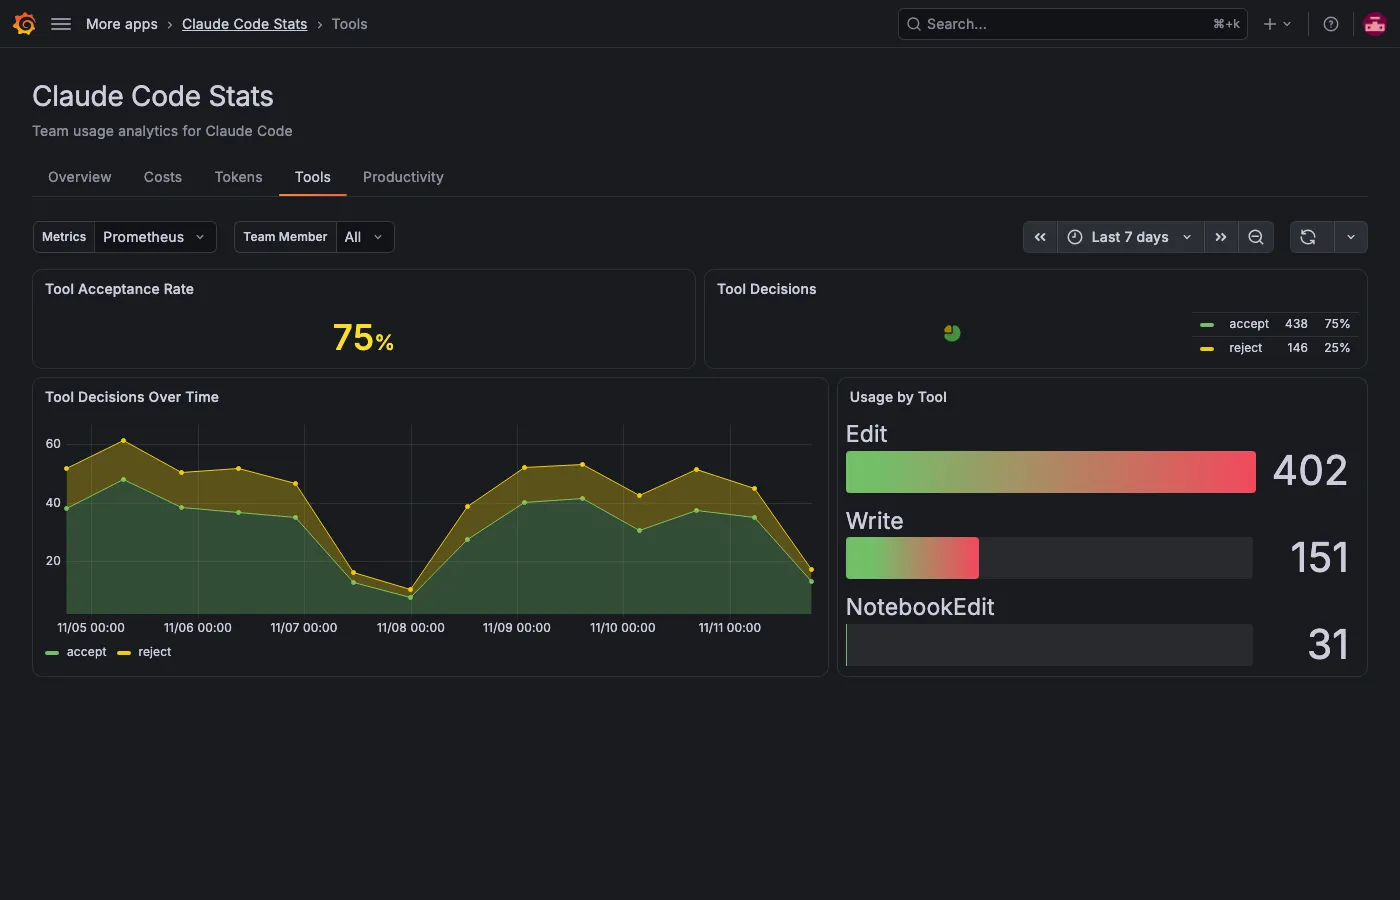
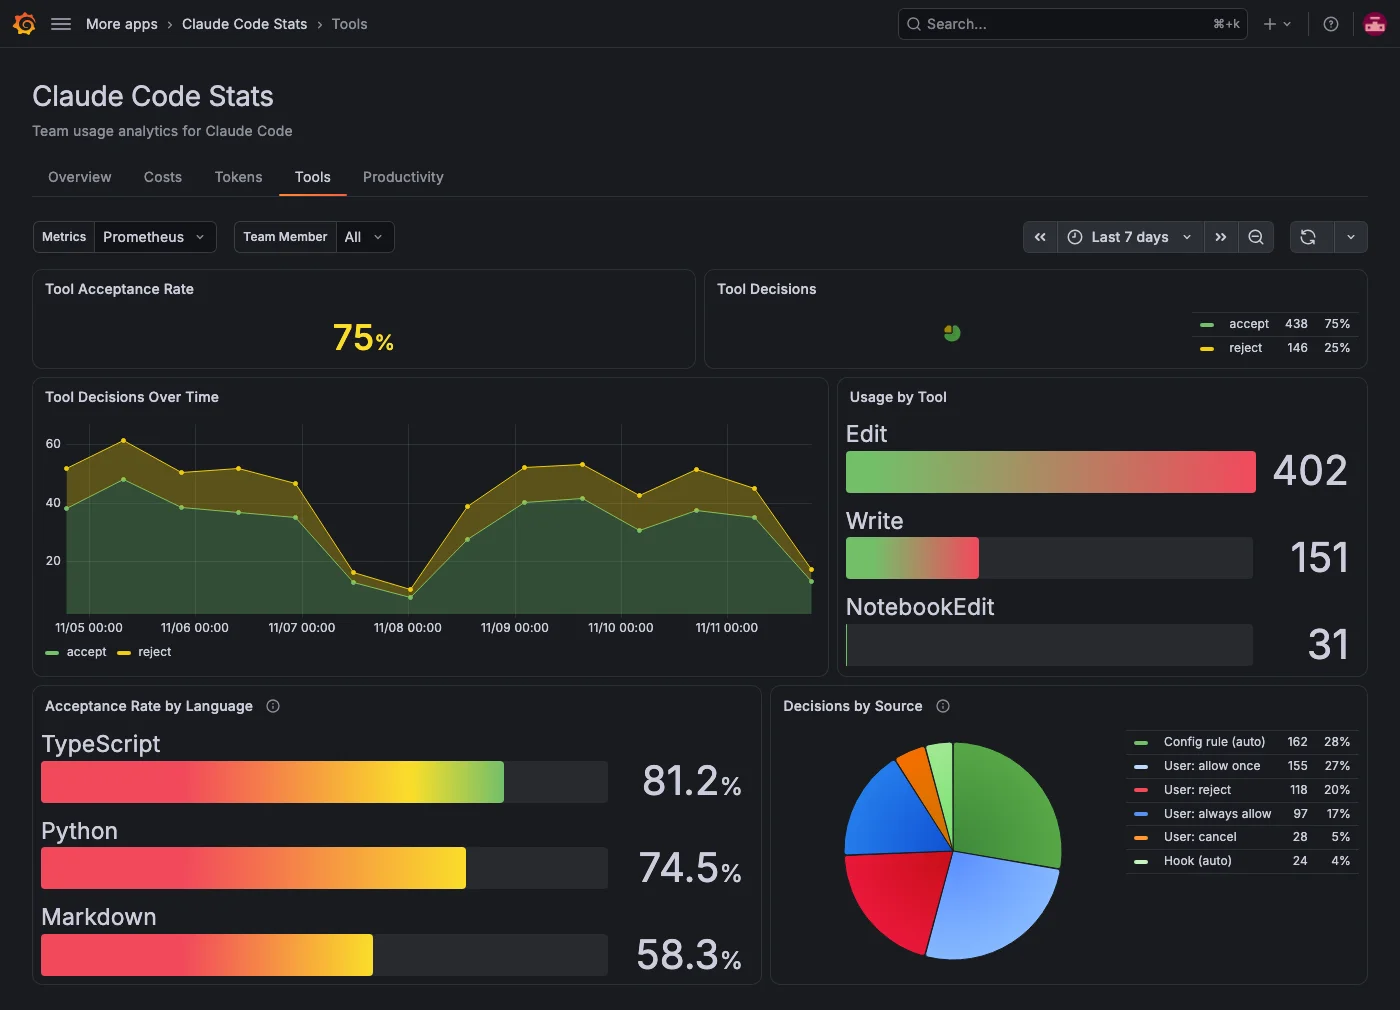
feat: tool acceptance rate by language and decision source (#31) (#69)
Add two panels to the Tools page:
- Acceptance Rate by Language: per-language accept %, sorted, keeping
  languages with zero accepts at 0% instead of dropping them.
- Decisions by Source: config rule / hook (auto) vs user allow once,
  always allow, reject, cancel, with readable names and fixed colors.

Includes e2e mocks and tests, Tools docs, and a refreshed screenshot.

diff --git a/src/scenes/pages/ToolsScene.ts b/src/scenes/pages/ToolsScene.ts
@@ -18,7 +18,7 @@ import {
   BarGaugeValueMode,
   VizOrientation,
 } from '@grafana/schema';
-import { QUERIES, Queries } from '../queries';
+import { DECISION_SOURCE_COLORS, DECISION_SOURCE_NAMES, QUERIES, Queries } from '../queries';
 import { getControlsWithoutModel } from '../variables';
 import { PANEL_HEIGHTS } from '../../constants';
 
@@ -69,6 +69,30 @@ export function getToolsScene(
         refId: 'ToolDecisionsOverTime',
         expr: queries.toolDecisionsOverTime,
         legendFormat: '{{decision}}',
+      },
+    ],
+  });
+
+  const toolAcceptanceRateByLanguageQuery = new SceneQueryRunner({
+    datasource: { type: 'prometheus', uid: '${prometheus_ds}' },
+    queries: [
+      {
+        refId: 'ToolAcceptanceRateByLanguage',
+        expr: queries.toolAcceptanceRateByLanguage,
+        legendFormat: '{{language}}',
+        instant: true,
+      },
+    ],
+  });
+
+  const toolDecisionsBySourceQuery = new SceneQueryRunner({
+    datasource: { type: 'prometheus', uid: '${prometheus_ds}' },
+    queries: [
+      {
+        refId: 'ToolDecisionsBySource',
+        expr: queries.toolDecisionsBySource,
+        legendFormat: '{{source}}',
+        instant: true,
       },
     ],
   });
@@ -148,6 +172,67 @@ export function getToolsScene(
                 .setOption('minVizWidth', 150)
                 .setOption('minVizHeight', 25)
                 .setDisplayName('${__series.name}')
+                .build(),
+            }),
+          ],
+        }),
+        // Row 3: Acceptance by language and who decides
+        new SceneFlexLayout({
+          direction: 'row',
+          height: PANEL_HEIGHTS.LARGE,
+          children: [
+            new SceneFlexItem({
+              width: '55%',
+              body: PanelBuilders.bargauge()
+                .setTitle('Acceptance Rate by Language')
+                .setDescription(
+                  'Share of edit decisions that were accepts, per file language. A language with only a few decisions can swing between 0% and 100%.'
+                )
+                .setUnit('percent')
+                .setMin(0)
+                .setMax(100)
+                .setData(toolAcceptanceRateByLanguageQuery)
+                .setOption('displayMode', BarGaugeDisplayMode.Gradient)
+                .setOption('orientation', VizOrientation.Horizontal)
+                .setOption('valueMode', BarGaugeValueMode.Text)
+                .setOption('showUnfilled', true)
+                .setOption('minVizWidth', 150)
+                .setOption('minVizHeight', 25)
+                .setDisplayName('${__series.name}')
+                .setThresholds({
+                  mode: 'absolute',
+                  steps: [
+                    { color: 'red', value: 0 },
+                    { color: 'yellow', value: 50 },
+                    { color: 'green', value: 80 },
+                  ],
+                } as never)
+                .build(),
+            }),
+            new SceneFlexItem({
+              width: '45%',
+              body: PanelBuilders.piechart()
+                .setTitle('Decisions by Source')
+                .setDescription(
+                  'Who made each edit decision: a config rule or hook (automatic), or the user at the permission prompt.'
+                )
+                .setUnit('short')
+                .setData(toolDecisionsBySourceQuery)
+                .setOption('legend', {
+                  displayMode: LegendDisplayMode.Table,
+                  placement: 'right',
+                  values: ['value', 'percent'] as never,
+                })
+                .setOverrides((b) => {
+                  for (const [source, name] of Object.entries(DECISION_SOURCE_NAMES)) {
+                    b.matchFieldsWithName(source)
+                      .overrideDisplayName(name)
+                      .overrideColor({
+                        mode: 'fixed',
+                        fixedColor: DECISION_SOURCE_COLORS[source as keyof typeof DECISION_SOURCE_NAMES],
+                      });
+                  }
+                })
                 .build(),
             }),
           ],

diff --git a/src/scenes/queries.ts b/src/scenes/queries.ts
@@ -180,6 +180,16 @@ function buildQueries(m: MetricNames) {
     /** Tool acceptance rate */
     toolAcceptanceRate: `sum(increase(${m.TOOL_DECISION}{${LABELS.USER_EMAIL}=~"$member", ${LABELS.DECISION}="accept"}[$__range])) / clamp_min(sum(increase(${m.TOOL_DECISION}{${LABELS.USER_EMAIL}=~"$member"}[$__range])), 1) * 100`,
 
+    /**
+     * Acceptance rate per file language, highest first. Languages with no
+     * accepts are kept at 0% via the `or ... * 0` fallback (otherwise the
+     * numerator has no series for them and they'd drop out).
+     */
+    toolAcceptanceRateByLanguage: `sort_desc((sum by (${LABELS.LANGUAGE}) (increase(${m.TOOL_DECISION}{${LABELS.USER_EMAIL}=~"$member", ${LABELS.DECISION}="accept"}[$__range])) or sum by (${LABELS.LANGUAGE}) (increase(${m.TOOL_DECISION}{${LABELS.USER_EMAIL}=~"$member"}[$__range])) * 0) / clamp_min(sum by (${LABELS.LANGUAGE}) (increase(${m.TOOL_DECISION}{${LABELS.USER_EMAIL}=~"$member"}[$__range])), 1) * 100)`,
+
+    /** Tool decisions by who made them: config rule, hook, or the user (allow once/always, reject, abort) */
+    toolDecisionsBySource: `sort_desc(sum by (${LABELS.DECISION_SOURCE}) (increase(${m.TOOL_DECISION}{${LABELS.USER_EMAIL}=~"$member"}[$__range])))`,
+
     /** Tool decisions over time */
     toolDecisionsOverTime: `sum(increase(${m.TOOL_DECISION}{${LABELS.USER_EMAIL}=~"$member"}[$__rate_interval])) by (${LABELS.DECISION})`,
 
@@ -209,6 +219,32 @@ export const ACTIVE_TIME_TYPE_NAMES = {
   user: 'User (interaction)',
   cli: 'CLI (processing)',
 } as const;
+
+/**
+ * Display names for the `source` label values of the code-edit decision metric.
+ * `config` and `hook` are automatic; the `user_*` values are explicit choices.
+ */
+export const DECISION_SOURCE_NAMES = {
+  config: 'Config rule (auto)',
+  hook: 'Hook (auto)',
+  user_permanent: 'User: always allow',
+  user_temporary: 'User: allow once',
+  user_reject: 'User: reject',
+  user_abort: 'User: cancel',
+} as const;
+
+/**
+ * Fixed colors for the decision sources: greens for automatic, blues for user
+ * allows, red/orange for user rejections, so the pie reads at a glance.
+ */
+export const DECISION_SOURCE_COLORS: Record<keyof typeof DECISION_SOURCE_NAMES, string> = {
+  config: 'green',
+  hook: 'super-light-green',
+  user_permanent: 'blue',
+  user_temporary: 'super-light-blue',
+  user_reject: 'red',
+  user_abort: 'orange',
+};
 
 /** Build queries for a specific metric format */
 export { buildQueries };

diff --git a/tests/mocks/prometheus.ts b/tests/mocks/prometheus.ts
@@ -23,6 +23,16 @@ export const ACTIVE_TIME_TYPES = { user: 'User (interaction)', cli: 'CLI (proces
 export const DECISIONS = ['accept', 'reject'] as const;
 // The code-edit decision metric only covers these tools.
 export const TOOLS = ['Edit', 'Write', 'NotebookEdit'] as const;
+export const LANGUAGES = ['TypeScript', 'Python', 'Markdown'] as const;
+// `source` label on the decision metric, and how the Decisions by Source panel displays it.
+export const DECISION_SOURCES = {
+  config: 'Config rule (auto)',
+  hook: 'Hook (auto)',
+  user_permanent: 'User: always allow',
+  user_temporary: 'User: allow once',
+  user_reject: 'User: reject',
+  user_abort: 'User: cancel',
+} as const;
 export const OS_TYPES = ['darwin', 'linux'] as const;
 export const HOST_ARCHES = ['arm64', 'x64'] as const;
 export const TERMINAL_TYPES = ['vscode', 'iTerm.app'] as const;
@@ -93,6 +103,18 @@ const TOKENS = {
 const SESSIONS_BY_START_TYPE = { fresh: 34, resume: 15, continue: 9, agents_view: 4 };
 const DECISIONS_BY_TYPE = { accept: 438, reject: 146 };
 const DECISIONS_BY_TOOL = { Edit: 402, Write: 151, NotebookEdit: 31 };
+// Same 584 decisions by who made them: accepts (438) are config/hook/user allows,
+// rejects (146) are user rejects and aborts.
+const DECISIONS_BY_SOURCE = {
+  config: 162,
+  hook: 24,
+  user_permanent: 97,
+  user_temporary: 155,
+  user_reject: 118,
+  user_abort: 28,
+};
+// Acceptance rate (%) per file language.
+const ACCEPTANCE_RATE_BY_LANGUAGE = { TypeScript: 81.2, Python: 74.5, Markdown: 58.3 };
 const LINES_BY_TYPE = { added: 4820, removed: 1960 };
 // Same total by model; `unknown` is lines from clients too old to send the label.
 const LINES_BY_MODEL = { [MODELS[0]]: 4310, [MODELS[1]]: 2140, unknown: 330 };
@@ -307,6 +329,8 @@ const DATASET: Record<string, FrameBuilder> = {
   ToolDecisions: (id) => instantSeriesFrames(id, 'decision', DECISIONS_BY_TYPE),
   ToolDecisionsByTool: (id) => instantSeriesFrames(id, 'tool_name', DECISIONS_BY_TOOL),
   ToolDecisionsOverTime: (id, r) => rangeSeriesFrames(id, 'decision', DECISIONS_BY_TYPE, r),
+  ToolDecisionsBySource: (id) => instantSeriesFrames(id, 'source', DECISIONS_BY_SOURCE),
+  ToolAcceptanceRateByLanguage: (id) => instantSeriesFrames(id, 'language', ACCEPTANCE_RATE_BY_LANGUAGE),
 
   // --- productivity ---
   LinesOfCodeByType: (id) => instantSeriesFrames(id, 'type', LINES_BY_TYPE),

diff --git a/tests/tools.spec.ts b/tests/tools.spec.ts
@@ -1,6 +1,6 @@
 import { test, expect } from './fixtures';
 import { panelByTitle, legendItem } from './mocks/panels';
-import { DISPLAY, DECISIONS, TOOLS } from './mocks/prometheus';
+import { DISPLAY, DECISIONS, DECISION_SOURCES, LANGUAGES, TOOLS } from './mocks/prometheus';
 
 test.describe('Tools scene', () => {
   test('renders the acceptance rate stat', async ({ mockData, gotoPage, selectors }) => {
@@ -23,6 +23,23 @@ test.describe('Tools scene', () => {
 
     for (const tool of TOOLS) {
       await expect(panel.getByText(tool, { exact: true }).first()).toBeVisible();
+    }
+  });
+
+  test('renders acceptance rate by language', async ({ mockData, gotoPage, selectors }) => {
+    const app = await gotoPage('tools');
+    const panel = panelByTitle(app, selectors, 'Acceptance Rate by Language');
+
+    for (const language of LANGUAGES) {
+      await expect(panel.getByText(language, { exact: true }).first()).toBeVisible();
+    }
+  });
+
+  test('renders decisions by source with readable names', async ({ mockData, gotoPage, selectors }) => {
+    const app = await gotoPage('tools');
+
+    for (const name of Object.values(DECISION_SOURCES)) {
+      await expect(legendItem(app, selectors, 'Decisions by Source', name)).toBeVisible();
     }
   });
 });

diff --git a/src/constants.ts b/src/constants.ts
@@ -58,6 +58,8 @@ export const LABELS = {
   START_TYPE: 'start_type', // fresh, resume, continue, agents_view
   TOOL: 'tool_name',
   DECISION: 'decision',
+  LANGUAGE: 'language', // file language of a code-edit decision (TypeScript, Python, Markdown, ...)
+  DECISION_SOURCE: 'source', // config, hook, user_permanent, user_temporary, user_abort, user_reject
   // Attribution labels (what is driving spend)
   QUERY_SOURCE: 'query_source', // main, subagent, auxiliary
   AGENT_NAME: 'agent_name', // subagent; user-defined collapse to "custom"

diff --git a/catalog-docs/features/tools.md b/catalog-docs/features/tools.md
@@ -23,6 +23,26 @@ The **Tools** tab shows the permission decisions team members make on the file-e
 
 A decision counts whether a team member made it or a configuration rule or hook made it automatically.
 
+## Break down decisions by language and source
+
+| Panel                           | What it shows                                                                                            |
+| ------------------------------- | -------------------------------------------------------------------------------------------------------- |
+| **Acceptance Rate by Language** | The acceptance rate for each language of the edited file, such as TypeScript or Markdown, highest first. |
+| **Decisions by Source**         | Who made each decision, with the count and share of each.                                                |
+
+**Decisions by Source** shows these sources:
+
+| Source                 | Meaning                                                              |
+| ---------------------- | -------------------------------------------------------------------- |
+| **Config rule (auto)** | A permission rule in the Claude Code settings decided automatically. |
+| **Hook (auto)**        | A hook made the decision.                                            |
+| **User: always allow** | The team member allowed the edit and similar edits from then on.     |
+| **User: allow once**   | The team member allowed this edit only.                              |
+| **User: reject**       | The team member rejected the edit.                                   |
+| **User: cancel**       | The team member cancelled the prompt without answering.              |
+
+A language with only a few decisions can swing between 0% and 100%, so compare it with **Decisions by Source** and **Usage by Tool** before drawing conclusions.
+
 ## Filters on this tab
 
 **Team Member** applies to every panel. The tab has no **Model** filter, because edit decisions aren't recorded per model.
